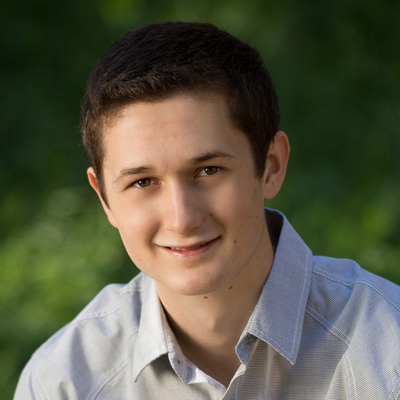
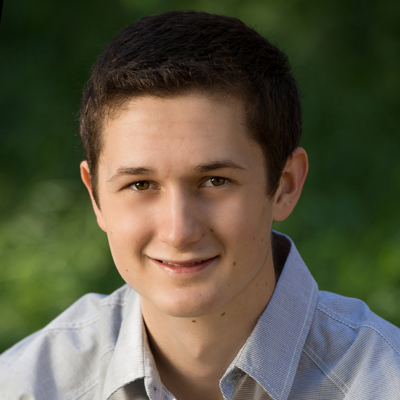
Site updated at 2017-02-24 05:31:08 UTC

diff --git a/index.html b/index.html
@@ -294,7 +294,7 @@
 					<section>							<a href="#">
 
 						<span class="image">
-							<img style="width:12em; border-radius: 50%;" src="images/empty-profile.png" alt=""/>
+							<img style="width:12em; border-radius: 50%;" src="images/yvonne-rodriguez.jpeg" alt=""/>
 						</span>
 						<h4>Yvonne Rodriguez</h4>
 						<p>Undergraduate Research Assistant</p>
